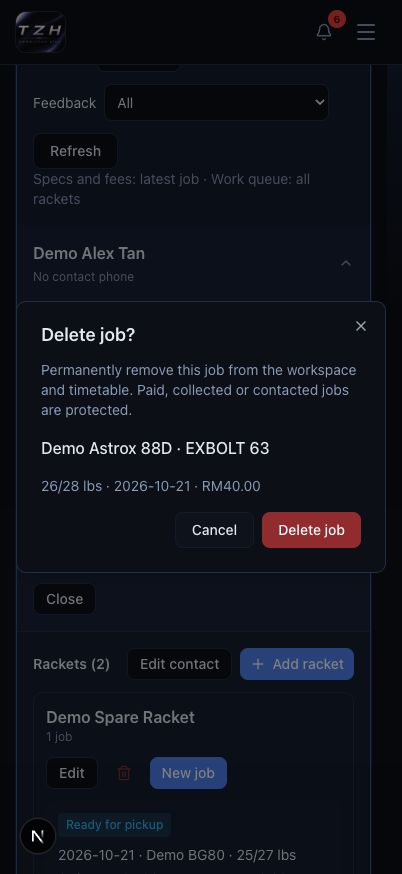
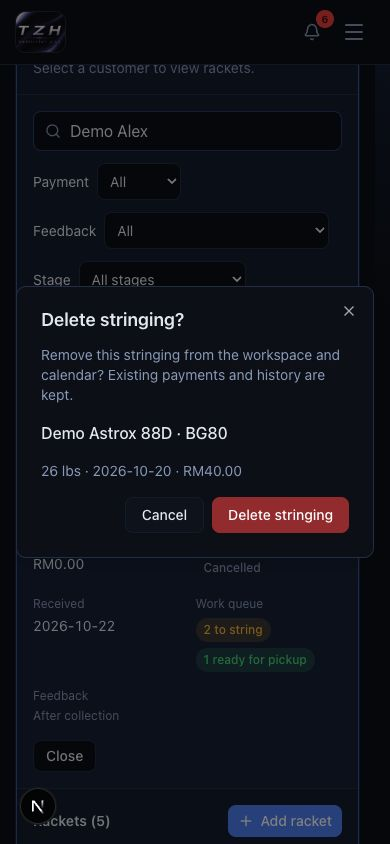
Update stringing walkthroughs for simplified management and direct deletion

diff --git a/website/stringing.md b/website/stringing.md
@@ -8,8 +8,8 @@ After deployment, open [Admin → Stringing](https://tzhsports.vercel.app/admin/
 
 1. In **Customers**, select **Add customer**, type at least two characters of a registered member’s name, email or phone, choose them from the dropdown, then select **Add contact**. Clear the field to start again. Each row is the linked member. Its name, email and phone come from the account and cannot be edited here. Account updates appear in Stringing automatically.
 2. Select the customer name or **View rackets**, then **Add racket**, enter its model and an optional nickname such as “Blue grip”, then save. Add separate records for separate physical rackets, even when their models match.
-3. Under **Rackets**, select the racket name or **Details**, then **Start stringing**, and enter the string, main/cross tension, stringing fee, optional grommet fee/notes and received date. Set both pickup date and time, or leave both empty.
-4. Save. The service starts **Received / Unpaid**. Use the outlined **Search members or strings** field to search by member name, email, phone or string; expand the customer to find active services. **Edit stringing** changes an unpaid, open service.
+3. Under **Rackets**, select the racket name or **Details**, then **Start stringing**, and enter the string, one tension value, stringing/grommet fees and optional Notes; the received date defaults to today. Set both pickup date and time, or leave both empty.
+4. Save. The service starts **Received / Unpaid**. Use the outlined **Search members or strings** field to search by member name, email, phone or string; expand the customer to find active services. **Actions → Edit stringing** changes an unpaid, open service.
 5. Open the status dropdown (it shows the current status), choose **In progress**, **Ready for pickup** or **Collected**, review the confirmation, and confirm. Cancel keeps the current status. Progress moves forward only; collection records its time. Choose **Cancel stringing** in that dropdown to close an unpaid, uncollected service after confirmation.
 
 Account/racket edits preserve earlier service details. If another administrator changed a record, refresh before trying again. Progress does not record payment, award points or issue an invoice.
@@ -39,7 +39,7 @@ of their services/rackets matches; the row still shows their latest service. Cho
 ![Stage filter on mobile](../images/stringing/stage-filter-mobile.jpg)
 
 Expanding a customer shows **all rackets**, including empty rackets. Received,
-In progress and Ready for pickup services are summarized in compact racket rows. Select **Details** to open their actions. **Start stringing** is available only when the racket has no active service. Collect or cancel its current service before starting another. Each racket's collected or
+In progress and Ready for pickup services are summarized in compact racket rows. Select **Details** to open a window with current stringing and its actions. **Start stringing** is available only when the racket has no active service. Collect or cancel its current service before starting another. Each racket's collected or
 cancelled services are under **Stringing history**. Open that section for history, messages
 or an eligible unpaid collected service's **Mark Paid** action. Inside **Details**, racket actions and
 reminder countdowns remain available without opening Stringing history. Search can match
@@ -56,35 +56,29 @@ older services in those sections.
 ![Search for a registered member while typing](../images/stringing/member-dropdown-mobile.jpg)
 
 
-## Remove an accidental service
+## Delete a stringing service
 
-1. Expand the customer, find the racket and select the trash icon on the service’s
-   action row. Check the racket, string, tension, date and total in **Delete stringing?**.
-2. Select **Cancel** to keep it, or **Delete stringing** to remove it from history,
-   timetable, workload and unpaid totals. This cannot be undone.
-3. Paid/collected services and services with recorded contact or other linked history are
-   protected. Use cancellation for an eligible unpaid service when history should remain.
-4. The racket and member remain. If the racket has no other services, its own trash
-   icon becomes available. Retrying an old creation request cannot restore a
-   deleted service; start a genuinely new service if needed.
+1. Expand the customer and select **Details → … → Delete stringing**. No status change is needed, including for paid, collected or previously contacted services.
+2. Check the racket, string, tension, received date and total. Select **Cancel** to keep it, or **Delete stringing** to confirm.
+3. The service disappears from the workspace, calendar and follow-ups. The racket and member remain, and you can start another stringing. Existing payments, points, invoices and linked history are kept; deletion does not issue a refund.
 
 **Awaiting production migration and deployment.**
 
-![Job trash control on desktop](../images/stringing/delete-job-actions-desktop.jpg)
+![Direct delete action](../images/stringing/delete-job-actions-desktop.jpg)
 
-![Review the exact fictional job before deleting](../images/stringing/delete-job-mobile.jpg)
+![Confirm deletion](../images/stringing/delete-job-mobile.jpg)
 
 ## Remove an unused racket
 
 1. Select the customer name or **View rackets** to show all their rackets.
-2. Select the trash icon beside an empty racket, check its model/nickname, then
+2. Select **Details → Actions → Delete racket** for an empty racket, check its model/nickname, then
    **Delete racket**. **Cancel** keeps it.
 3. Rackets with any service history cannot be deleted, including those with cancelled
-   services. Their trash icon is disabled; the member and all service history stay intact.
+   services. Their Delete racket menu item is disabled; the member and all service history stay intact.
 
 ![Status dropdown reflects each job’s current state](../images/stringing/current-status-desktop.jpg)
 
-Dark mode uses matching outlined controls for Edit, status and Messages.
+Dark mode uses the same theme controls for status, payment and Actions.
 
 ![Current status on mobile](../images/stringing/current-status-mobile.jpg)
 
@@ -122,12 +116,12 @@ Scheduling does not record payment or contact completion. The daily list sorts e
 
 ## Prepare WhatsApp messages and follow-ups
 
-1. For payment, pickup or feedback messages, open a service’s **Messages**. For the 45-day restring reminder, select **Reminder** beside the physical racket, or **Follow-ups → Manage racket reminder**. The **Reminder** button shows remaining days, **Due today**, days overdue, **Off**, **Contact done** or **Not started** before collection, so you can check without opening it.
-2. For service messages, choose a message stage; a racket reminder opens directly on the restring message. Choose English, 中文 or Bahasa Melayu. This choice saves automatically for this customer and is reused across their rackets and stages. Check the member’s account phone and the racket details. Edit the **One-off message preview** for this contact; resolve or deliberately remove any missing placeholders.
+1. For payment, pickup or feedback messages, open **Details → Actions → Messages**. For the 45-day restring reminder, select **Details → Actions → Reminder settings & message**, or **Follow-ups → Manage racket reminder**. The reminder label shows remaining days, **Due today**, days overdue, **Off**, **Contact done** or **Not started** before collection, so you can check without opening it.
+2. For service messages, choose a message stage; a racket reminder opens directly on the restring message. Choose English, 中文 or Bahasa Melayu. This choice saves automatically for this customer and is reused across their rackets and stages. Check the member’s account phone and the racket details. Edit the **Message preview** for this contact; resolve or deliberately remove any missing placeholders.
 3. **Copy message** copies the draft. **Open WhatsApp** prepares it for you to send yourself. Neither action records a sent message or changes payment/progress. A missing/invalid account phone disables WhatsApp. The member must update their account phone before WhatsApp can be opened; Copy remains available.
 4. To reuse different wording, expand **Edit shared template**, edit the template, tick the replacement confirmation and select **Save shared template**. This changes that stage/language for all admins. One-off edits do not change the shared template.
-5. After completing the contact yourself, tick **I sent this message myself** and select **Mark as sent**. The selected stage shows **Sent · manually recorded** and its first confirmation time. For a restring reminder this closes the follow-up; it does not send anything.
-6. In **Reminder**, set **Days after collection** (default 45, zero allowed), or **Disable reminders for this racket**, then **Save racket reminder**. You can configure an empty racket before its first service. This preference carries over to future services. Each collection resets only this physical racket’s countdown; saving recalculates its pending due date from the last collection. Completed contact stays closed, and the saved preference applies to the next collection.
+5. After completing the contact yourself, select **Mark as sent**. The selected stage shows **Sent · manually recorded** and its first confirmation time. For a restring reminder this closes the follow-up; it does not send anything.
+6. In **Reminder → Settings**, set **Days after collection** (default 45, zero allowed), or **Disable reminders for this racket**, then **Save racket reminder**. You can configure an empty racket before its first service. This preference carries over to future services. Each collection resets only this physical racket’s countdown; saving recalculates its pending due date from the last collection. Completed contact stays closed, and the saved preference applies to the next collection.
 7. Use **Follow-up filter** for due/overdue, all pending, contact done, superseded or disabled reminders. Use page controls and **Refresh follow-ups** as needed.
 
 Feedback requests use the private link created for the collected service below. There are no automatic WhatsApp messages.
@@ -212,8 +206,8 @@ to the selected day's list.
 
 A racket can be Received, In progress or Ready for pickup with one current
 service. Its current string/tension, status, pickup and total fees appear in one compact
-row. Select the racket name or **Details** for actions, reminders and history.
-Opening a different racket closes the previous detail panel. **Start stringing** appears after collection or cancellation and
+row. Select the racket name or **Details** for its window with active stringing, actions, reminders and history.
+Close the window to choose another racket. **Start stringing** appears after collection or cancellation and
 for unused rackets, inside **Details**. Previous services remain in **Stringing history**, including
 unpaid collected services that still need payment. The racket's reminder continues
 from its last collection, independently of the current service.
@@ -255,7 +249,7 @@ again. Saving a language does not send or mark a message sent.
 
 ### Simpler message window (awaiting deployment)
 
-As an admin, open a racket's **Details → Messages**. Review **Stage** and
+As an admin, open a racket's **Details → Actions → Messages**. Review **Stage** and
 **Language**, edit **Message preview**, then **Copy message** or **Open WhatsApp**.
 After sending yourself, click **Mark as sent**. Its date appears for that stage;
 you can still copy or open WhatsApp again. Opening WhatsApp does not mark it sent.
@@ -273,3 +267,74 @@ keeps an edited message. Before the first collection, only settings are availabl
 ![Simplified stage message composer](../images/stringing/clean-message-desktop.jpg)
 
 ![Reminder message with separate settings on mobile](../images/stringing/clean-reminder-mobile.jpg)
+
+### Compact stringing details (awaiting deployment)
+
+As an admin, expand a member and racket's **Details**, then choose **Actions → Edit stringing**
+(or **Start stringing** for an idle racket). String, one tension value, fees and
+optional pickup are shown together. Pickup uses Malaysia time; leave both date
+and time blank when unscheduled.
+
+Expand **Notes & received date** for the single **Notes** field or the received
+date. Existing notes show **Notes saved**. Collapsing this section keeps its values.
+**Save** and **Cancel** remain visible while the fields scroll on a small screen.
+Cancel discards edits; Save updates the unpaid service without recording payment.
+
+![Compact stringing details on desktop](../images/stringing/clean-stringing-editor-desktop.jpg)
+
+![Compact stringing details on mobile](../images/stringing/clean-stringing-editor-mobile.jpg)
+
+For **Tension (lbs)**, enter one value such as **26** or **26.5**. Put special
+main/cross instructions in **Notes & received date → Notes**, for example
+“Main 26 / cross 28 lbs.” Existing unequal main/cross values are preserved there
+automatically; the main value becomes the single tension. Messages and the
+timetable show one tension, and new invoice descriptions use the same value.
+
+### One note for all instructions (awaiting deployment)
+
+In **Actions → Edit stringing → Notes & received date**, use **Notes** for all instructions,
+including grommets and special main/cross tension. There is no separate Grommet
+notes field. Existing grommet notes are kept in Notes with a “Grommets:” label.
+Save and reopen to review the combined text.
+
+![Single Notes field on desktop](../images/stringing/single-note-desktop.jpg)
+
+![Single Notes field on mobile](../images/stringing/single-note-mobile.jpg)
+
+### Racket details window (awaiting deployment)
+
+Select **Details** or a racket name to open its window. The active stringing is
+visible immediately: string, tension, progress, Malaysia pickup time, received
+date, fees/payment and notes. Previous services stay in collapsed **Stringing
+history**. Idle rackets show **No active stringing** and **Start stringing**.
+
+Change status beside the string details. Select **Message** beside status for
+payment, pickup and feedback messages. Use **Mark Paid** beside the total fees.
+The **…** menu in the window header contains editing and eligible deletion, plus:
+
+- **Restring reminder**: the racket’s reminder schedule and message, normally 45 days after collection.
+
+Payment/status still need confirmation. Closing an editor or message returns to
+the racket window; closing that window returns to the racket list.
+
+![Current stringing in the racket window](../images/stringing/racket-window-desktop.jpg)
+
+![Racket details window on mobile](../images/stringing/racket-window-mobile.jpg)
+
+The Actions menu shows action names with a divider between service and racket
+options; it has no extra title rows.
+
+![Actions menu without extra headings](../images/stringing/actions-without-headings-desktop.jpg)
+
+![Actions menu without headings on mobile](../images/stringing/actions-without-headings-mobile.jpg)
+
+The details window omits the extra current-stringing heading and reminder
+countdown line. Open **… → Restring reminder** for reminder details.
+
+### Default view (awaiting deployment)
+
+Open [Stringing](https://tzhsports.vercel.app/admin/stringing) as an administrator.
+**Timetable** is the first tab and opens by default, with the daily agenda and monthly calendar below it.
+Select **Customers** to manage members and rackets, or **Follow-ups** for reminders.
+
+![Default daily agenda with calendar below](../images/stringing/default-timetable-desktop.jpg)
